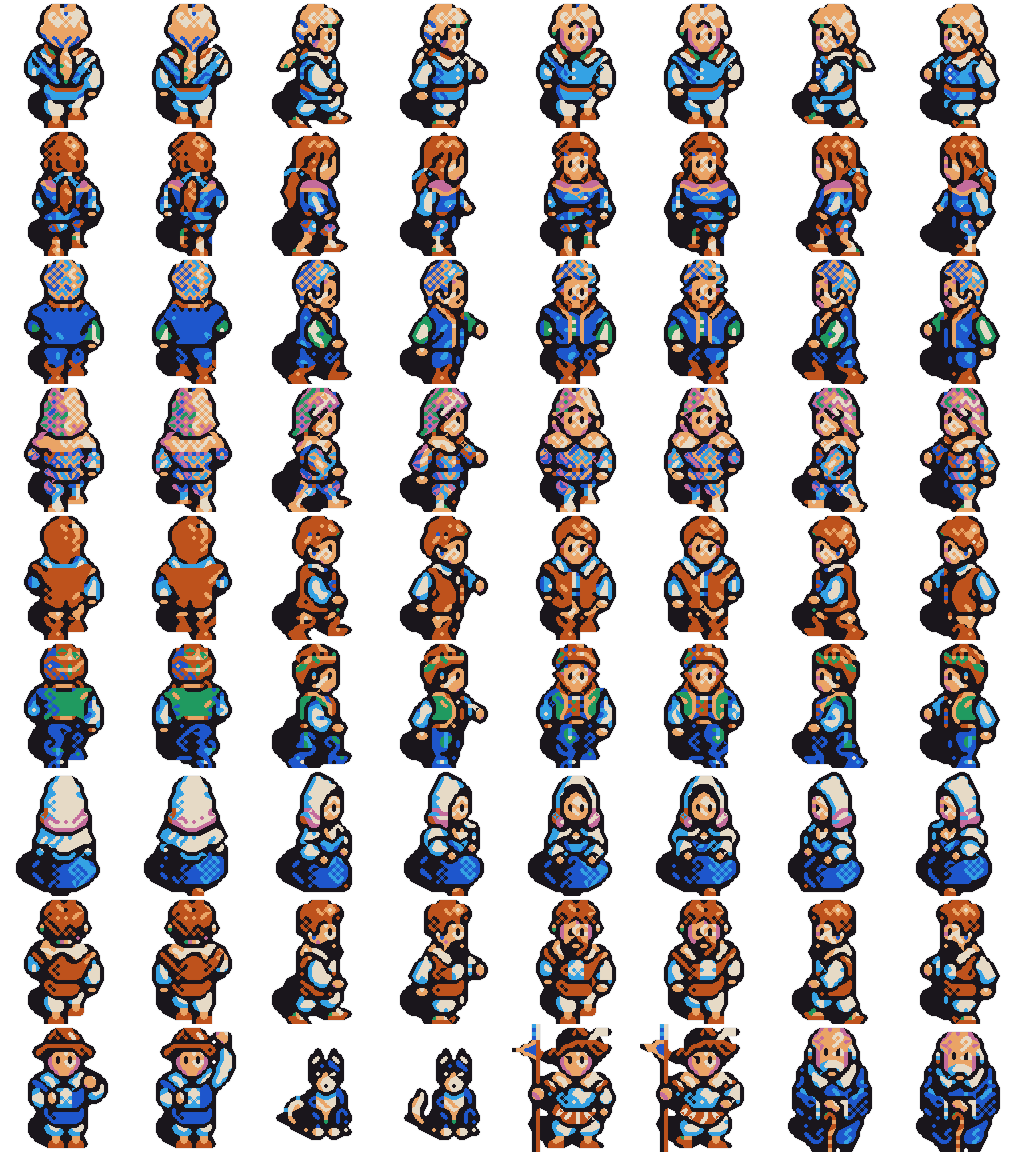
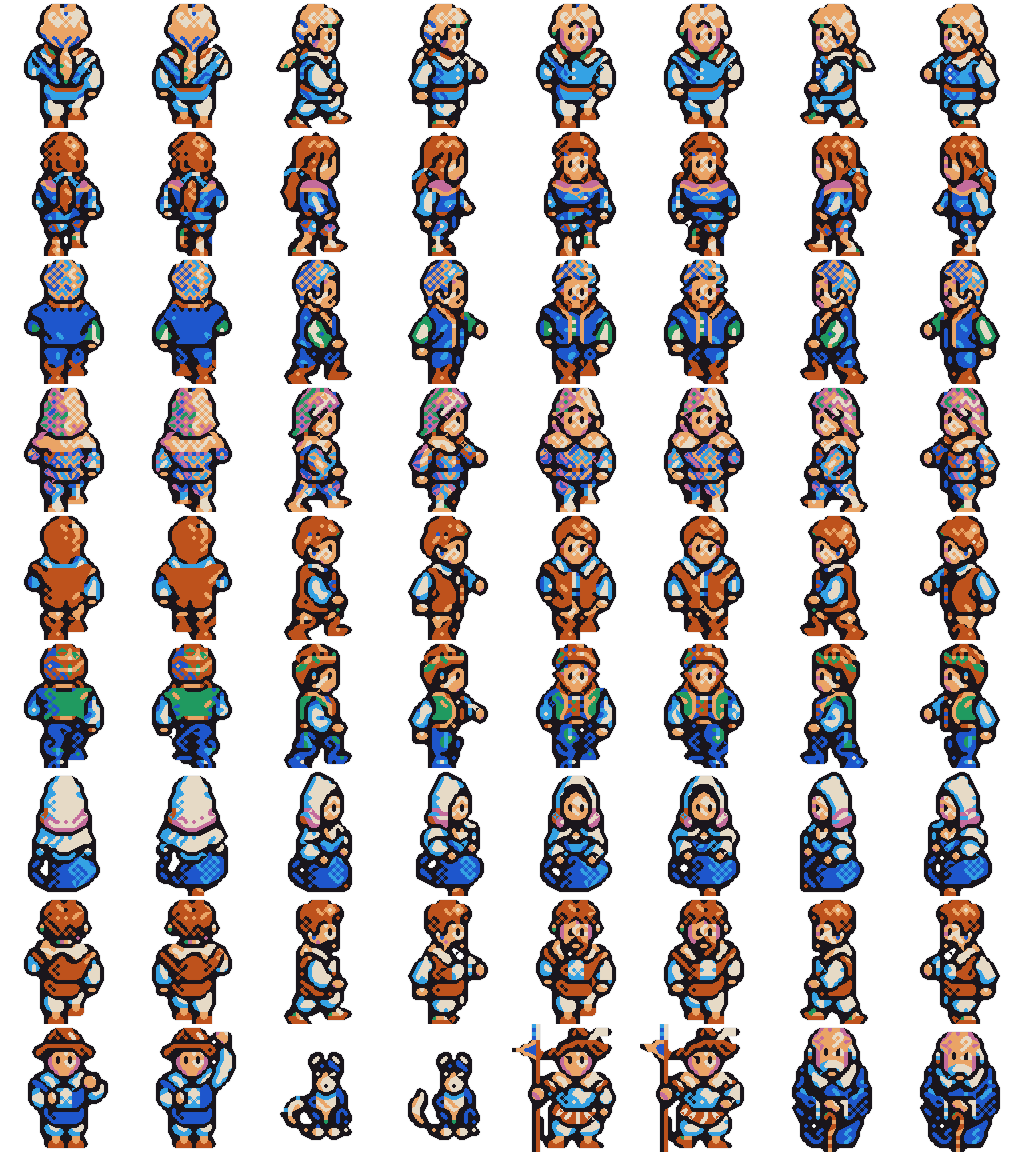
fix(art): strip baked-in black drop shadows from HD character sprites

diff --git a/tools/build_hd_textures.py b/tools/build_hd_textures.py
@@ -11,7 +11,7 @@ import os
 from collections import deque
 from PIL import Image
 import numpy as np
-from scipy.ndimage import binary_closing, binary_fill_holes, gaussian_filter, label, sobel
+from scipy.ndimage import binary_closing, binary_dilation, binary_fill_holes, gaussian_filter, label, sobel
 
 ROOT = os.path.dirname(os.path.dirname(os.path.abspath(__file__)))
 ART_SHEETS = os.path.join(ROOT, "web", "assets", "art", "sheets")
@@ -998,12 +998,16 @@ def process_chars_sheet():
 
     yy, xx = np.mgrid[0:hd_tile, 0:hd_tile].astype(np.float32)
     cx_norm = (xx - hd_tile * 0.5) / (hd_tile * 0.5)
+    struct8 = np.ones((3, 3), dtype=bool)
 
     for r in range(rows):
         for c in range(cols):
             tile_idx = idx_all[r * tile_sz:(r + 1) * tile_sz, c * tile_sz:(c + 1) * tile_sz]
-            alpha32 = (tile_idx < 16).astype(np.float32)
-            base32 = dedither_tile_rgb(np.where(tile_idx < 16, tile_idx, 0), MODERN_SPRITE_PAL, SPRITE_DITHER_PAIRS)
+            body = (tile_idx > 0) & (tile_idx < 16)
+            # 剔除原版角色贴图左侧/脚底自带的黑色投影块，仅保留紧贴主体像素 (8 邻域) 的 1px 轮廓与五官描边，避免与实时光影重叠成黑块
+            keep_mask = body | ((tile_idx == 0) & binary_dilation(body, structure=struct8))
+            alpha32 = keep_mask.astype(np.float32)
+            base32 = dedither_tile_rgb(np.where(keep_mask, tile_idx, 0), MODERN_SPRITE_PAL, SPRITE_DITHER_PAIRS)
             base_rgba = np.dstack([base32, alpha32 * 255.0])
 
             # 保持清晰锐利的角色立体轮廓 (仅 4x EPX + 极轻量内抗锯齿)
